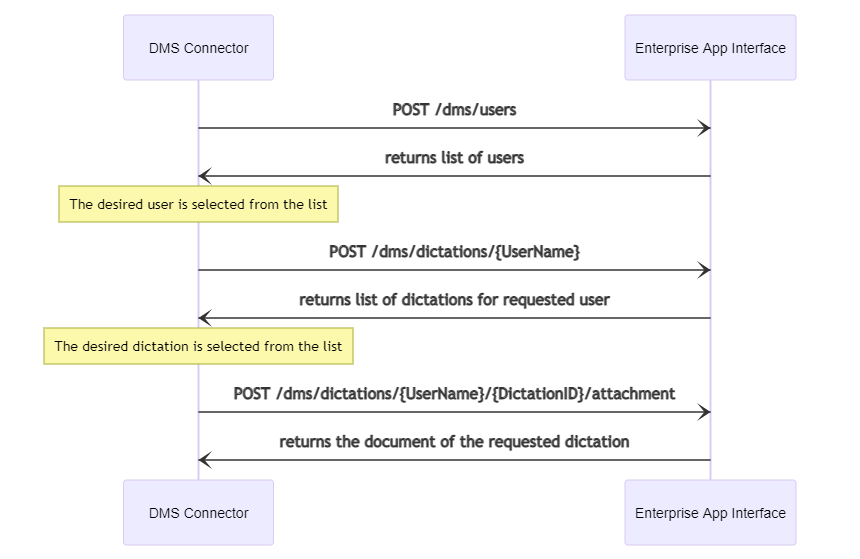
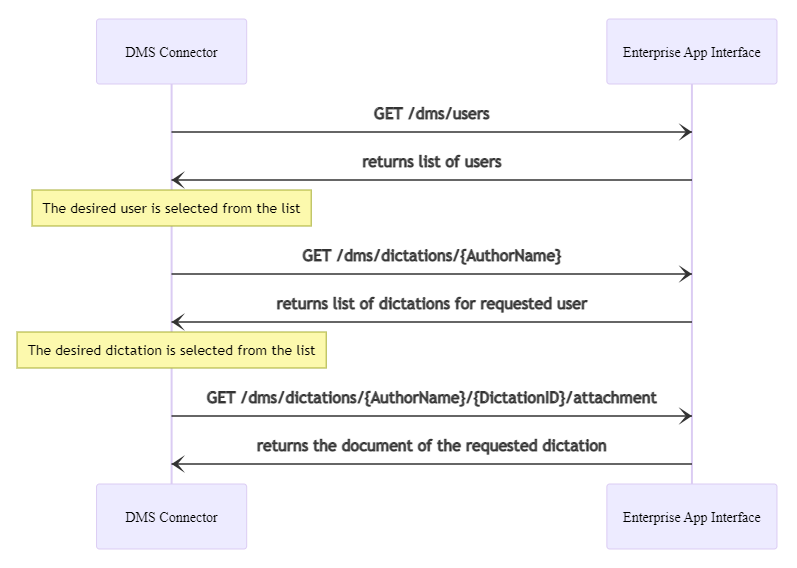
Smaller fixes regarding docs (#10)
* Fixed mistyped request types in dms flowchart

* added missing 401 example from MasterData insert

diff --git a/docs/see/enterprise-app-interface/endpoints/masterdata/15_MasterDataAddNew.md b/docs/see/enterprise-app-interface/endpoints/masterdata/15_MasterDataAddNew.md
@@ -61,6 +61,8 @@ The call returns with `HTTP 400-BadRequest` in the following cases:
 - The ID field is null or empty
 - Any of the Datetime* fields has invalid data. These fields must specified in the following format: `yyyy-MM-dd HH:mm:ss`
 
+The call returns with `HTTP 401-Unauthorized` if the authentication prerequisites are not fulfilled.
+
 The call returns with `HTTP 409-Conflict` in the following cases:
 
 - A master data record with the same ID already exists in the DB
@@ -81,6 +83,13 @@ A test application can be found here:
 Request:
 
 POST https://my.service.url/SEEAppInterface/masterdata/dataitems
+
+Headers:
+```
+x-sps-api-key: "<api_key_supported_by_server>"
+```
+
+Body:
 ``` json
 {
     "CRI": "2CBA31B2-CCCA-40A3-BEA8-771F25A748F6",
@@ -102,11 +111,39 @@ Response:
 }
 ```
 
+### Return with `HTTP 401-Unauthorized` error response due to not matching API key
+
+Request:
+
+POST https://my.service.url/SEEAppInterface/masterdata/dataitems
+
+Headers:
+```
+x-sps-api-key: ""
+```
+
+Response:
+
+401 Unauthorized
+``` json
+{
+    "CRI": "2CBA31B2-CCCA-40A3-BEA8-771F25A748F6",
+    "FailureCode": "Invalid_api_key"
+}
+```
+
 ### Return with `HTTP 409-Conflict` due to primary key (ID) violation
 
 Request:
 
 POST https://my.service.url/SEEAppInterface/masterdata/dataitems
+
+Headers:
+```
+x-sps-api-key: "<api_key_supported_by_server>"
+```
+
+Body:
 ``` json
 {
     "CRI": "2CBA31B2-CCCA-40A3-BEA8-771F25A748F6",

diff --git a/docs/see/enterprise-app-interface/endpoints/dms/static/images/diagrams/_EAI_DMS_GeneralCommunicationFlow.md b/docs/see/enterprise-app-interface/endpoints/dms/static/images/diagrams/_EAI_DMS_GeneralCommunicationFlow.md
@@ -2,12 +2,12 @@
 sequenceDiagram
     participant Engine as DMS Connector
     participant AppInt as Enterprise App Interface
-    Engine-)AppInt: POST /dms/users
+    Engine-)AppInt: GET /dms/users
     AppInt-)Engine: returns list of users
     Note over Engine: The desired user is selected from the list
-    Engine-)AppInt: POST /dms/dictations/{UserName}
+    Engine-)AppInt: GET /dms/dictations/{AuthorName}
     AppInt-)Engine: returns list of dictations for requested user
     Note over Engine: The desired dictation is selected from the list
-    Engine-)AppInt: POST /dms/dictations/{UserName}/{DictationID}/attachment
+    Engine-)AppInt: GET /dms/dictations/{AuthorName}/{DictationID}/attachment
     AppInt-)Engine: returns the document of the requested dictation
 ```
